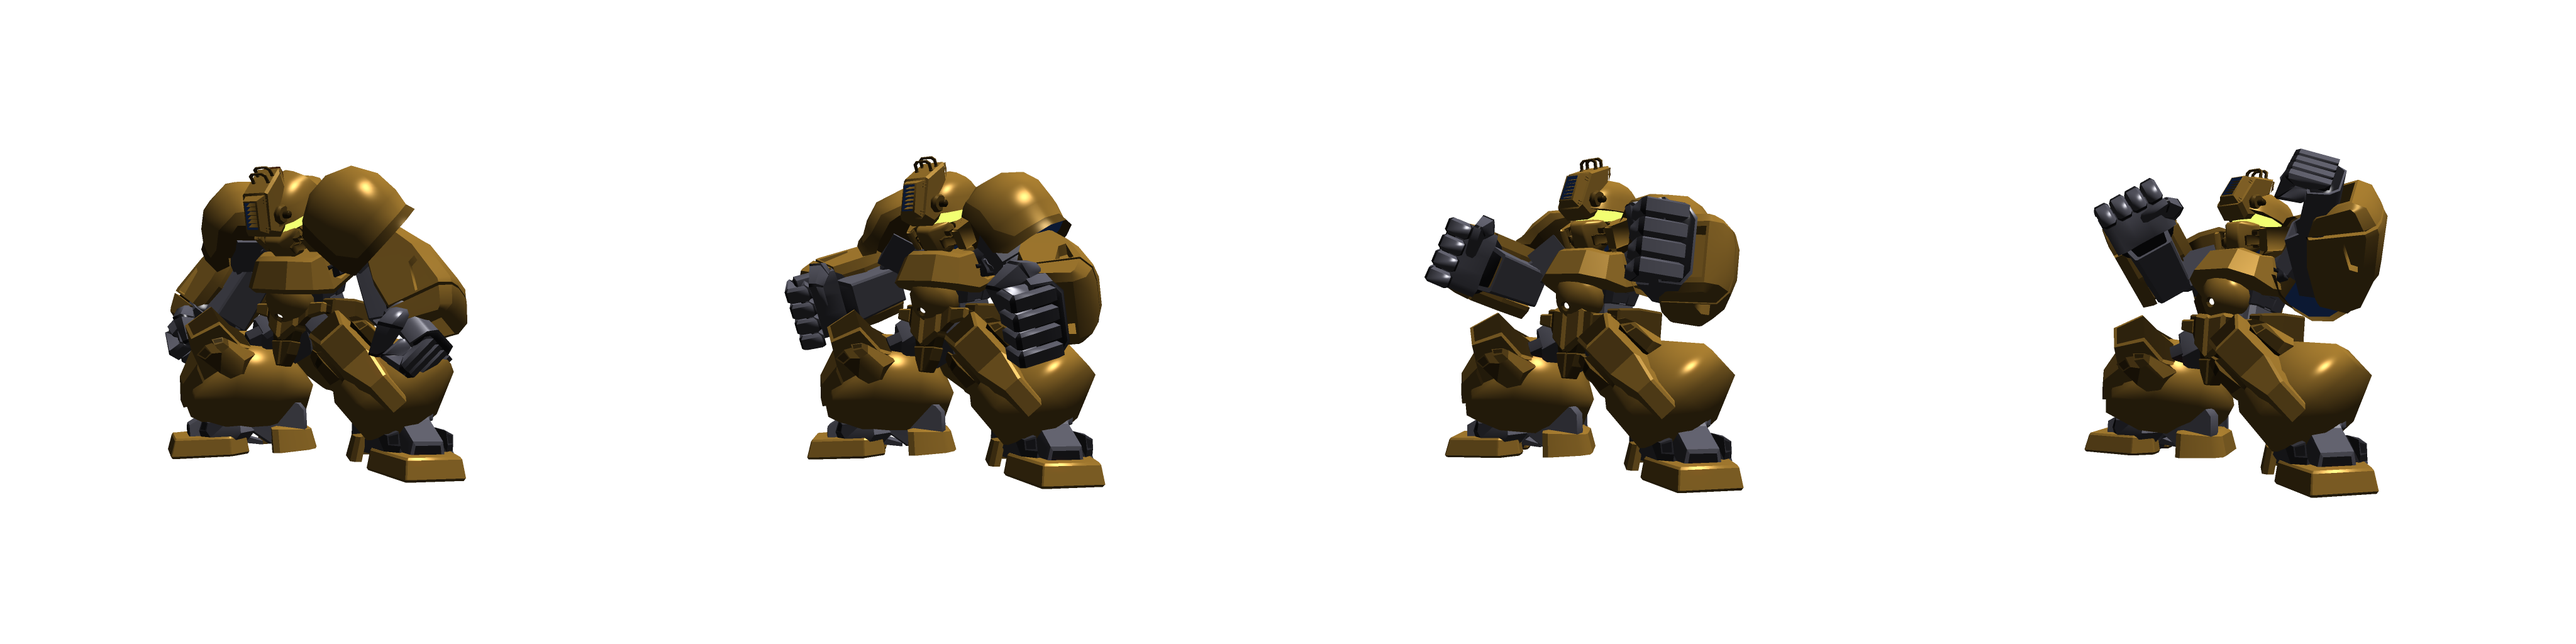
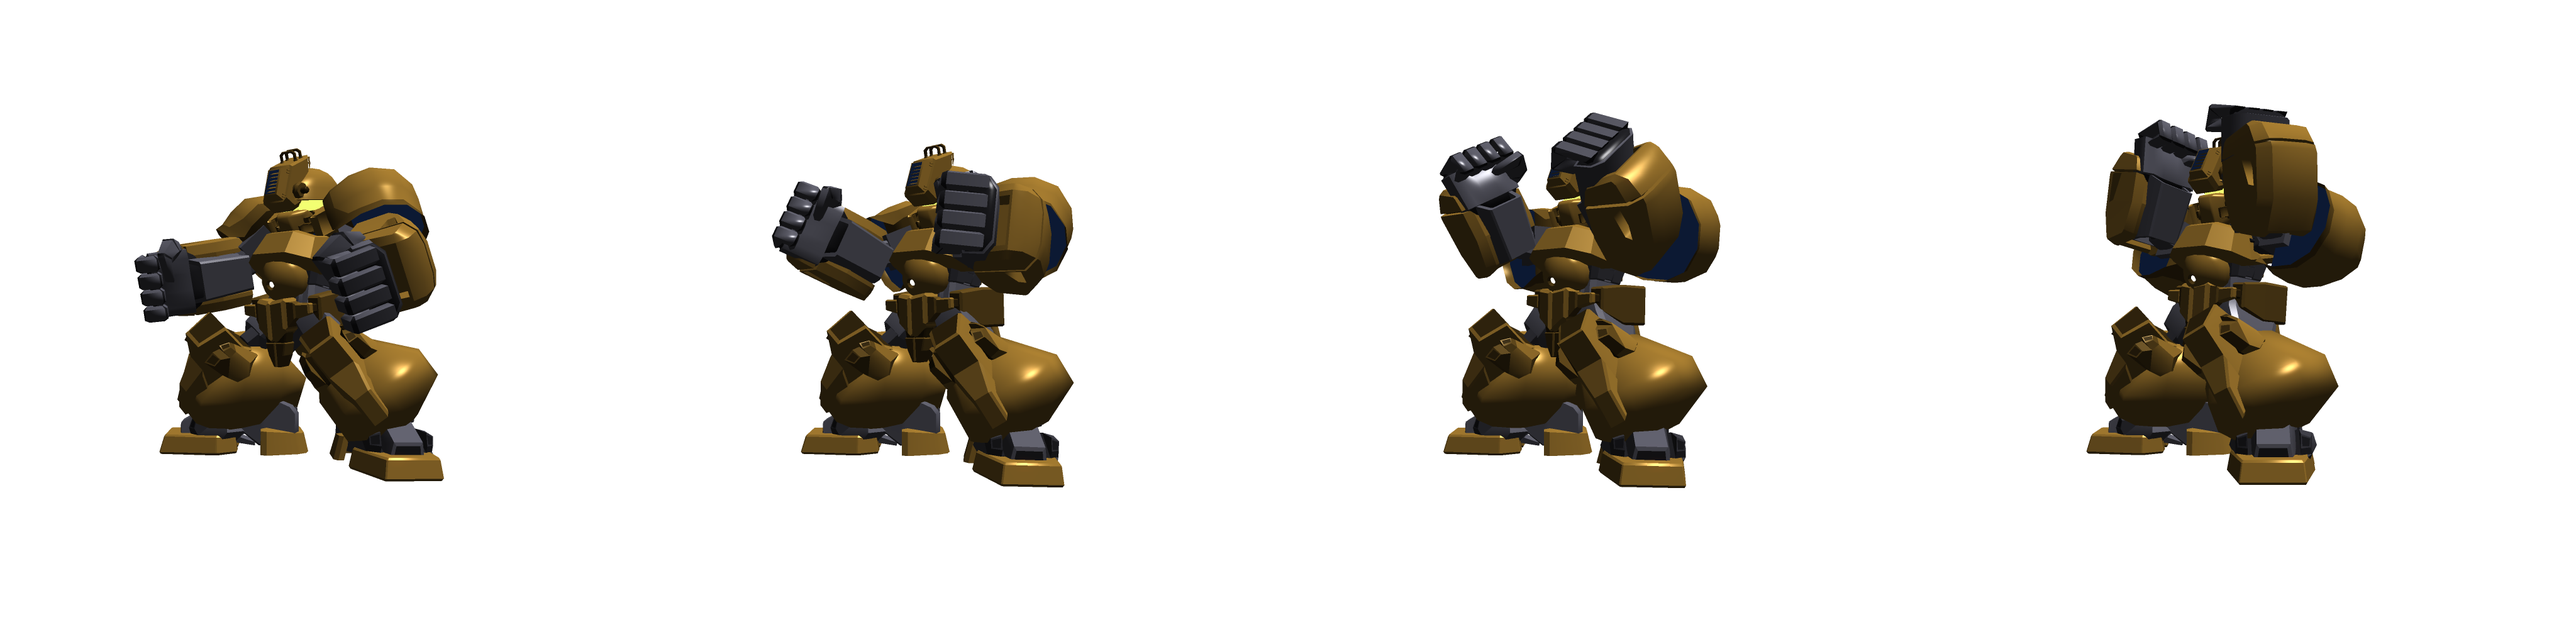
ターンスタートポーズをさらに調整した

diff --git a/src/js/game-object/armdozer/neo-landozer/animation/turn-start.js b/src/js/game-object/armdozer/neo-landozer/animation/turn-start.js
@@ -14,12 +14,12 @@ import {delay} from "../../../../animation/delay";
  */
 export function turnStart(model: NeoLandozerModel): Animate {
   return process(() => {
-    model.animation.type = 'GUTS_DOWN';
+    model.animation.type = 'GUTS_UP';
     model.animation.frame = 0;
-  }).chain(tween(model.animation, t => t.to({frame: 1}, 200)))
+  }).chain(tween(model.animation, t => t.to({frame: 1}, 300)))
     .chain(delay(100))
     .chain(process(() => {
-      model.animation.type = 'GUTS_UP';
+      model.animation.type = 'GUTS_DOWN';
       model.animation.frame = 0;
     }))
     .chain(tween(model.animation, t => t.to({frame: 1}, 300)));

diff --git a/src/js/game-object/armdozer/neo-landozer/animation/turn-start-to-stand.js b/src/js/game-object/armdozer/neo-landozer/animation/turn-start-to-stand.js
@@ -13,11 +13,11 @@ import {process} from '../../../../animation/process';
  */
 export function turnStartToStand(model: NeoLandozerModel): Animate {
   return process(() => {
-    model.animation.type = 'GUTS_UP';
+    model.animation.type = 'GUTS_DOWN';
     model.animation.frame = 1;
   }).chain(tween(model.animation, t => t.to({frame: 0}, 300)))
     .chain(process(() => {
-      model.animation.type = 'GUTS_DOWN';
+      model.animation.type = 'GUTS_UP';
       model.animation.frame = 1;
     }))
     .chain(tween(model.animation, t => t.to({frame: 0}, 300)))
